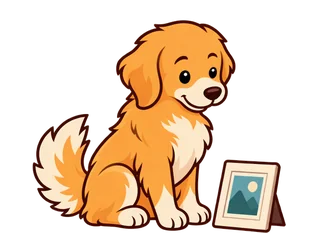
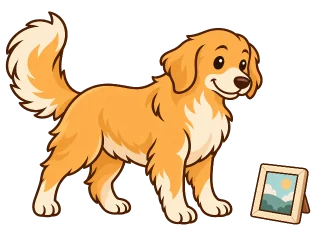
fix: stage clips are one drawing each, at the walk's size, 12 a second
Each stage clip and the found-it were redrawn pose sheets: the dog changed
size and shape between drawings (PEOPLE glitched, DIG's seam jumped) and six
drawings played back and forth read choppy. Now each is one new on-model
drawing, sized to the walk (standing height 213, ground at 224, found-it on
281), with only the tail, head, ears or paws bent per frame and the props as
fixed layers: 12-24 distinct frames at 12 fps, no frame-to-frame scale or
position change. DIG becomes a two-paw scrape over 1.0 s, NAMES 1.33 s.

Tests: MascotTest, MascotDirectorTest, core host tests, ktlintCheck,
compileDebugKotlin, verify.sh --quick, iOS simulator build. HardCodedCopyTest
still flags ReviewPrompt.kt (fixed on main in 1d21a99).

diff --git a/core/src/commonMain/kotlin/app/retriever/core/motion/MascotDirector.kt b/core/src/commonMain/kotlin/app/retriever/core/motion/MascotDirector.kt
@@ -52,8 +52,8 @@ enum class MascotMood {
 
 /**
  * One animated WebP in the shared Frames folder, and its resting pose. 2x the slot width; 12 drawings a second for quick
- * motion, fewer for slow motion (sit 8, welcome 10, doze 5). The stage clips and FOUND are drawn pose sheets, not video:
- * six drawings each, played back and forth (DIG's paw cycle runs straight round; FOUND plays five of them once).
+ * motion, fewer for slow motion (sit 8, welcome 10, doze 5). The stage clips and FOUND are one fixed drawing each with
+ * only the moving parts (tail, head, paws) bent per frame, 12 a second, so the dog never changes size between frames.
  */
 enum class MascotClip(val file: String, val still: String, val seconds: Double) {
     WALK("mascot_walk.webp", "mascot_walk_still.webp", 1.25),
@@ -64,11 +64,11 @@ enum class MascotClip(val file: String, val still: String, val seconds: Double) 
     HUH("mascot_huh.webp", "mascot_huh_still.webp", 2.24),
     WELCOME("mascot_welcome.webp", "mascot_welcome_still.webp", 2.6),
     CAUGHT_UP("mascot_caughtup.webp", "mascot_caughtup_still.webp", 1.33),
-    FOLDERS("mascot_folders.webp", "mascot_folders_still.webp", 1.25),
-    PHOTO("mascot_photo.webp", "mascot_photo_still.webp", 1.67),
+    FOLDERS("mascot_folders.webp", "mascot_folders_still.webp", 1.33),
+    PHOTO("mascot_photo.webp", "mascot_photo_still.webp", 1.66),
     RECEIPT("mascot_receipt.webp", "mascot_receipt_still.webp", 2.0),
     GREET("mascot_greet.webp", "mascot_greet_still.webp", 1.0),
-    DIG("mascot_dig.webp", "mascot_dig_still.webp", 0.6),
+    DIG("mascot_dig.webp", "mascot_dig_still.webp", 1.0),
     FOUND("mascot_found.webp", "mascot_found_still.webp", 1.0),
     TROUBLE("mascot_trouble_still.webp", "mascot_trouble_still.webp", 0.0),
 }
